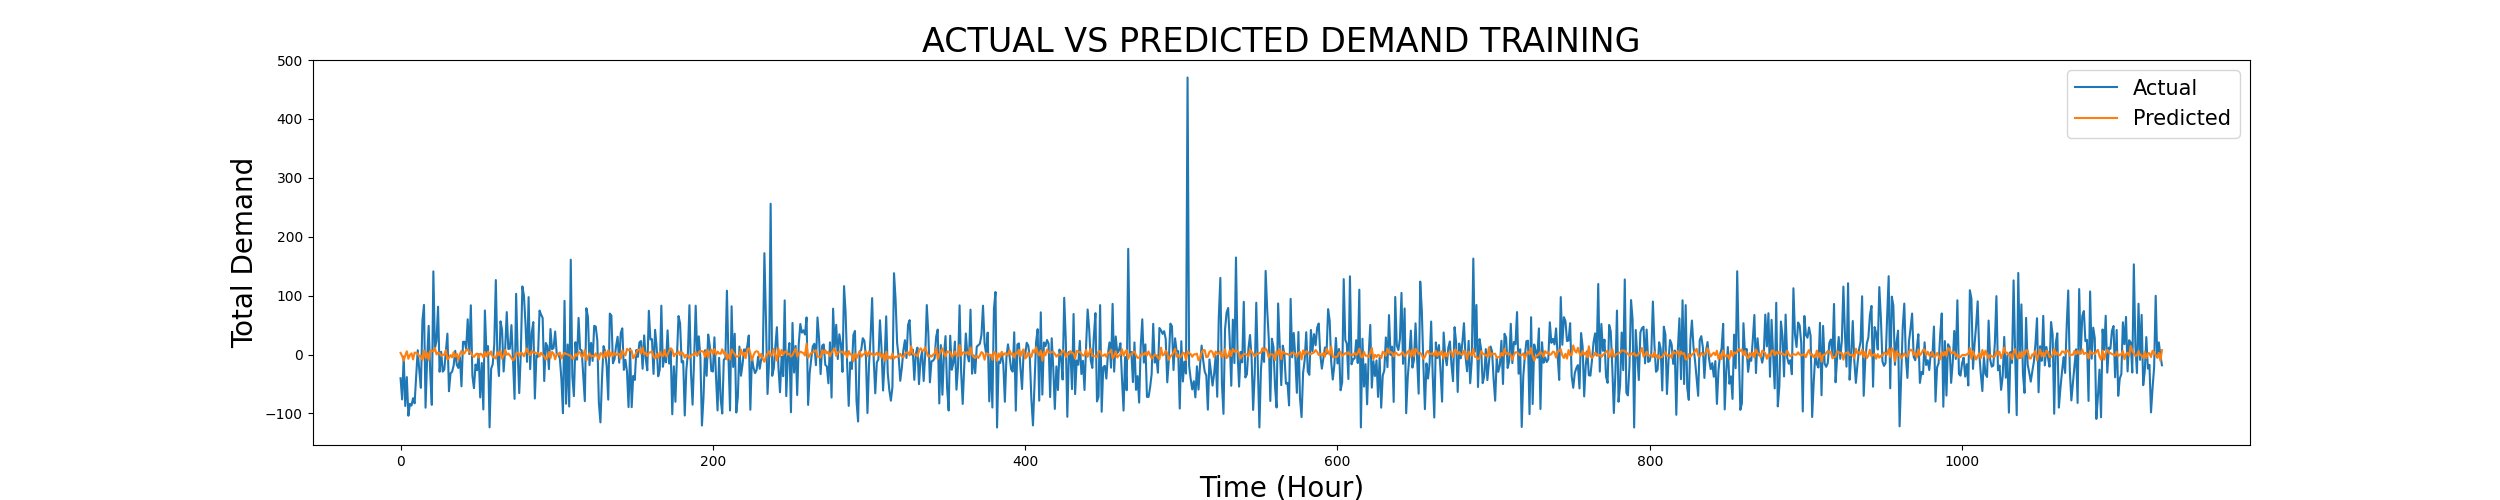
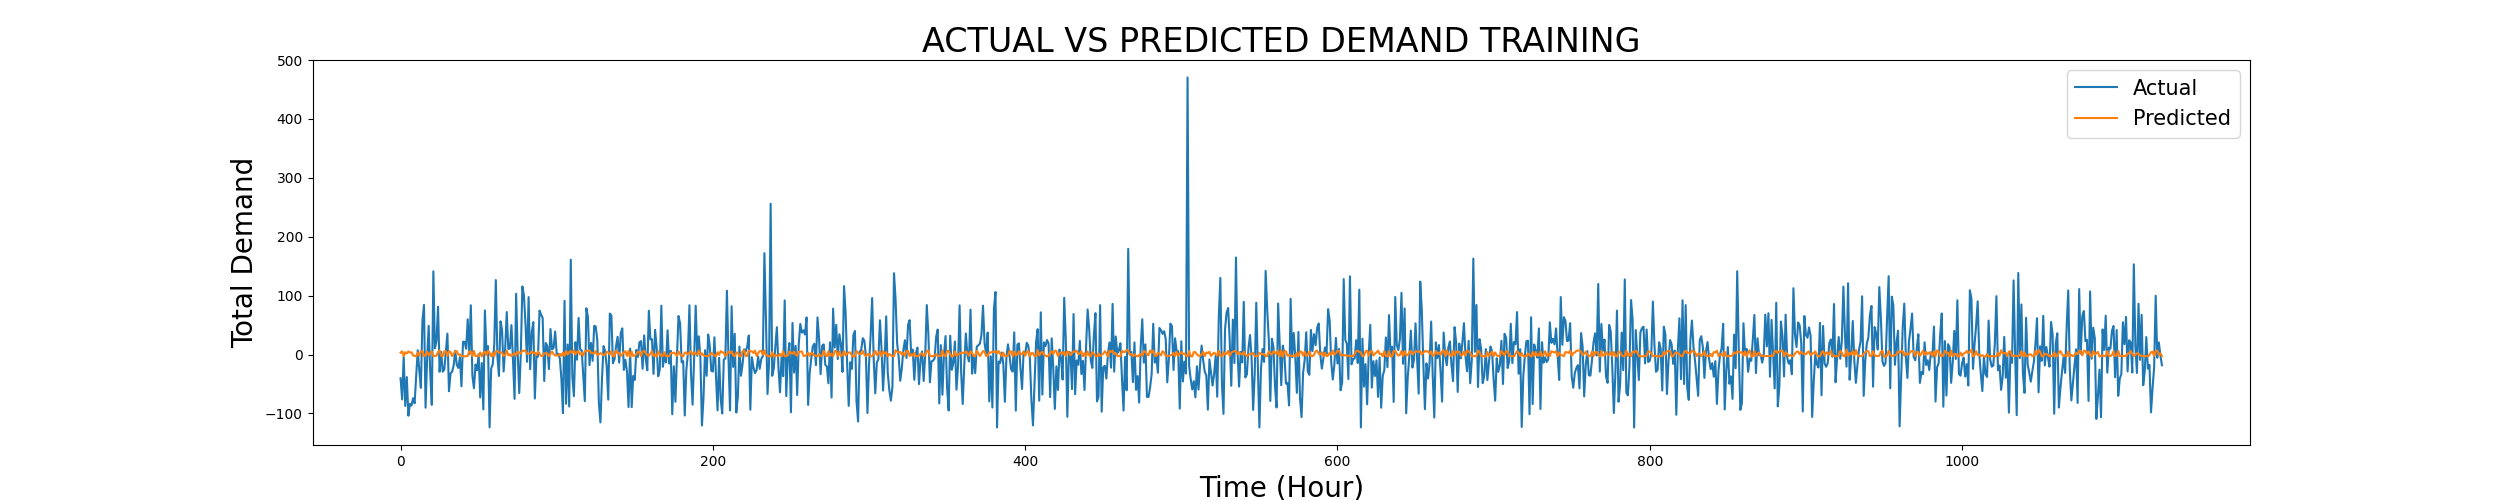
hyperparameter tuning

Changed region(s): [[0.156, 0.69, 0.8736, 0.72]]

diff --git a/Param_Our.py b/Param_Our.py
@@ -5,10 +5,10 @@ hidden_dim = 512
 TIMESTEP_OUR = 4
 Prediction_TIMESTEP = 1
 feature_len = 38
-BATCHSIZE = 128
+BATCHSIZE = 256
 LOSS = 'mse'
 OPTIMIZER = 'adam'
-EPOCH = 60
-LEARN = 5e-06 #0.001
+EPOCH = 10
+LEARN = 0.001 #5e-06
 WEIGHT_DECAY = 1e-5
 trainRatio = 0.8
